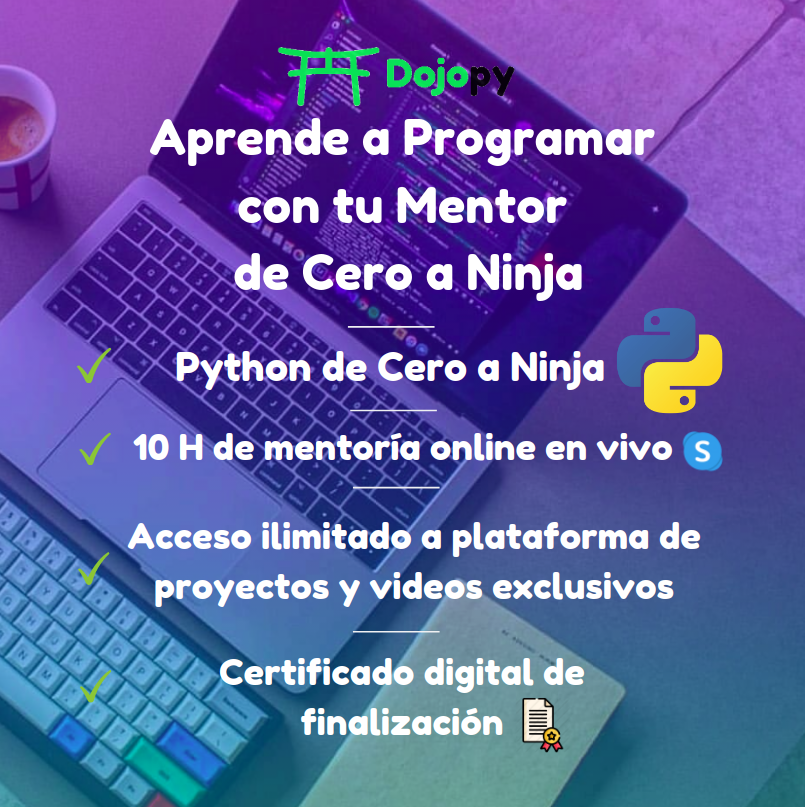
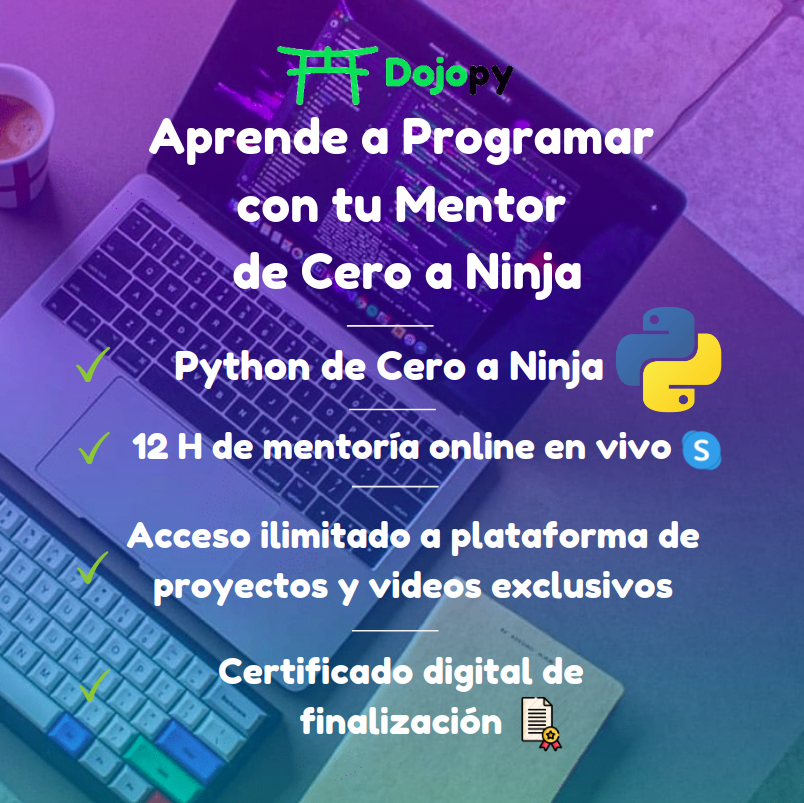
new

diff --git a/templates/taller_python.html b/templates/taller_python.html
@@ -123,7 +123,7 @@ Python es uno de los lenguajes de programación más valorados y usados a nivel 
                                             <h3 class="title" style="font-size:1.6rem; padding:7px">Python de Cero a Ninja<br> <p style="text-align:center;font-size:1.3rem;color:#0c2e60">(2 meses)</p> </h3>
                                             <div class="col-11">
                                             </div>
-                                            <h4 style="font-size:1.6rem; color:#31de79;font-weight:600" > $ 52 USD/mensual</h4>
+                                            <h4 style="font-size:1.6rem; color:#31de79;font-weight:600" > $ 50 USD/mensual</h4>
                                             <div class="col-11">
                                             </div>
 
@@ -168,18 +168,16 @@ Python es uno de los lenguajes de programación más valorados y usados a nivel 
                             <li>
                                 <p style="font-size:1.1rem; margin:5px">2 meses de mentoría online en vivo: </p>
                                 <ul class="unordered-list">
-                                    <li style="font-size:1.1rem;color:#888888"> sesiones de 2 horas con el Mentor </li>
+                                    <li style="font-size:1.1rem;color:#888888"> Sesiones de 2 horas con el Mentor </li>
                                     <li style="font-size:1.1rem;color:#888888"> 1 sesión/semana </li>
                                     <li style="font-size:1.1rem;color:#888888"> 6 sesiones</li>
-                                    <li style="font-size:1.1rem;color:#888888"> 10 horas de mentoría</li>
+                                    <li style="font-size:1.1rem;color:#888888"> 12 horas de mentoría</li>
                                 </ul>
                             </li>
 
                             <li>
                                 <p style="font-size:1.1rem; margin:5px">
-                                    Aprende en cualquier momento y lugar del mundo, <br/>
-            recibe mentorías en vivo por videollamada(Skype), <br/>
-             forma parte de nuevas experiencias de aprendizaje.
+                                    Aprende en cualquier momento y lugar del mundo, forma parte de nuevas experiencias de aprendizaje.
                                 </p>
                             </li>
 

diff --git a/templates/checkout.html b/templates/checkout.html
@@ -34,12 +34,12 @@
                                                 <h6 class="my-0">Taller Python de Cero a Ninja</h6>
                                                 <small class="text-muted">Dojopy</small>
                                             </div>
-                                            <span style="color:#31de79" class="text-muted">$ 52 USD</span>
+                                            <span style="color:#31de79" class="text-muted">$ 50 USD</span>
                                         </li>
 
                                         <li class="list-group-item d-flex justify-content-between">
                                             <span>Total</span>
-                                            <strong style="font-size:1rem; color:#31de79">$ 52 USD</strong>
+                                            <strong style="font-size:1rem; color:#31de79">$ 50 USD</strong>
                                         </li>
                                     </ul>
 
@@ -174,7 +174,7 @@ function culqi() {
         title: "Taller Python de Cero a Ninja",
         currency: 'USD',
         description: "Taller Python de Cero a Ninja",
-        amount: 52,
+        amount: 50,
         order: "pedido-9999",
     });
     Culqi.options({

diff --git a/templates/base.html b/templates/base.html
@@ -276,7 +276,7 @@
 
                                     <div class="col-9">
                                     </div>
-                                    <h4 style="font-size:1.6rem; color:#31de79" > $ 52 USD/mensual</h4>
+                                    <h4 style="font-size:1.6rem; color:#31de79" > $ 50 USD/mensual</h4>
                                     <div class="col-11">
                                     </div>
                                         <h5 style="font-size:1.2rem" > (pagas mes a mes)</h5>

diff --git a/startup/views.py b/startup/views.py
@@ -109,7 +109,7 @@ def checkout(request):
                 token_payment_gateway,
                 tk_django,
                 email,
-                175*100, # verificar! enviar en centimos
+                165*100, # verificar! enviar en centimos
                 'Taller Python de Cero a Ninja',
                 firstName,
                 lastName,

diff --git a/dojopy/settings.py b/dojopy/settings.py
@@ -6,8 +6,6 @@ BASE_DIR = os.path.dirname(os.path.dirname(os.path.abspath(__file__)))
 hostname = platform.uname()[1].lower().strip()
 
 HOST_ = 'localhost'
-if not('dojopy' in hostname):
-    HOST_ = 'db'
 
 # Quick-start development settings - unsuitable for production
 # See https://docs.djangoproject.com/en/2.2/howto/deployment/checklist/
